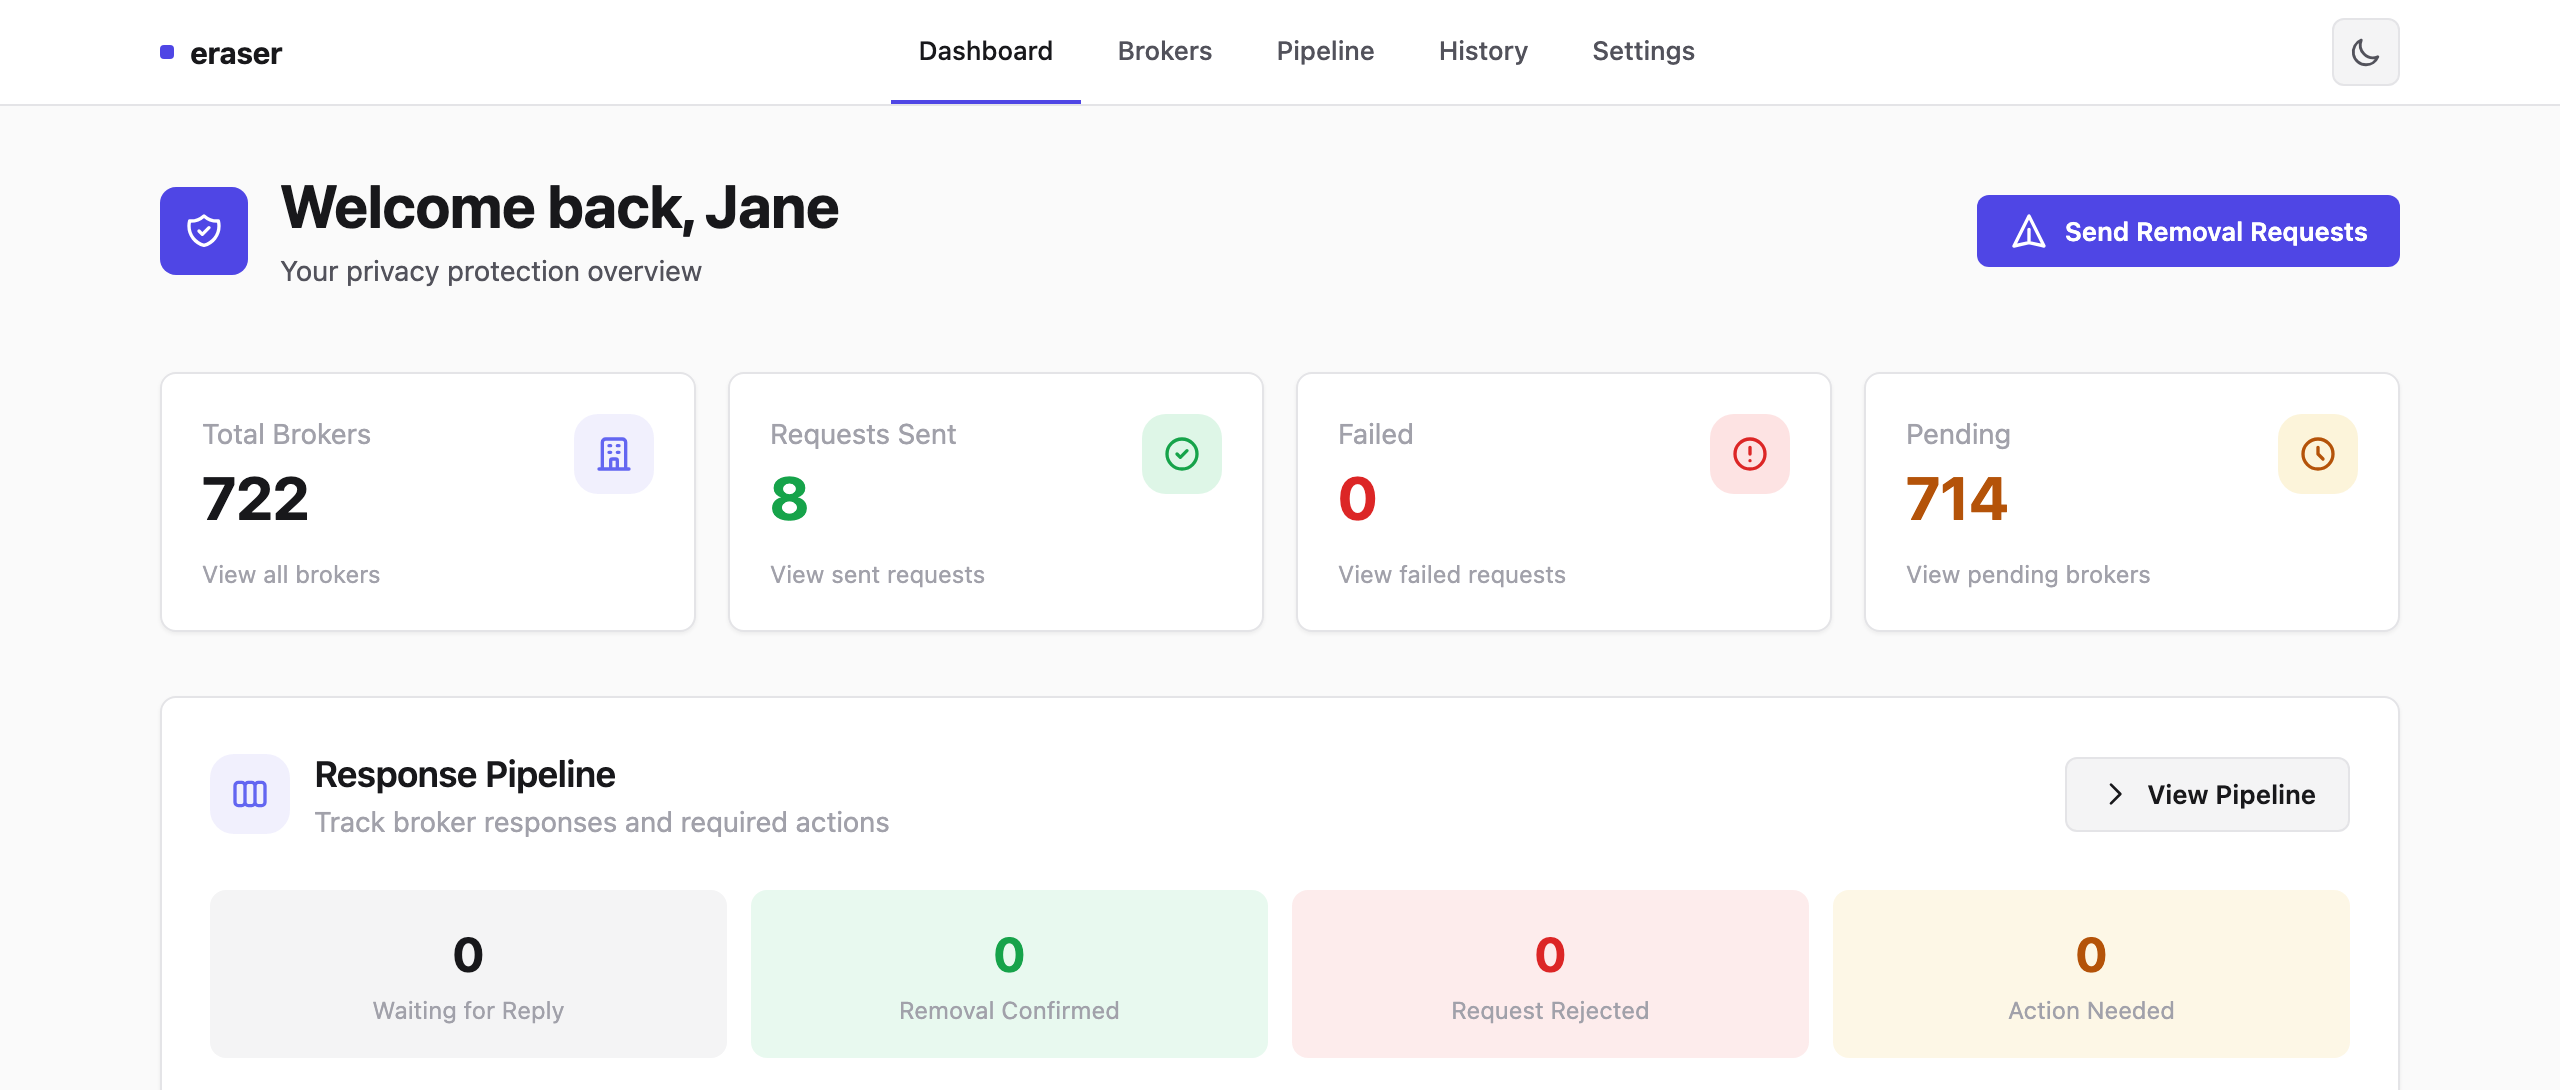
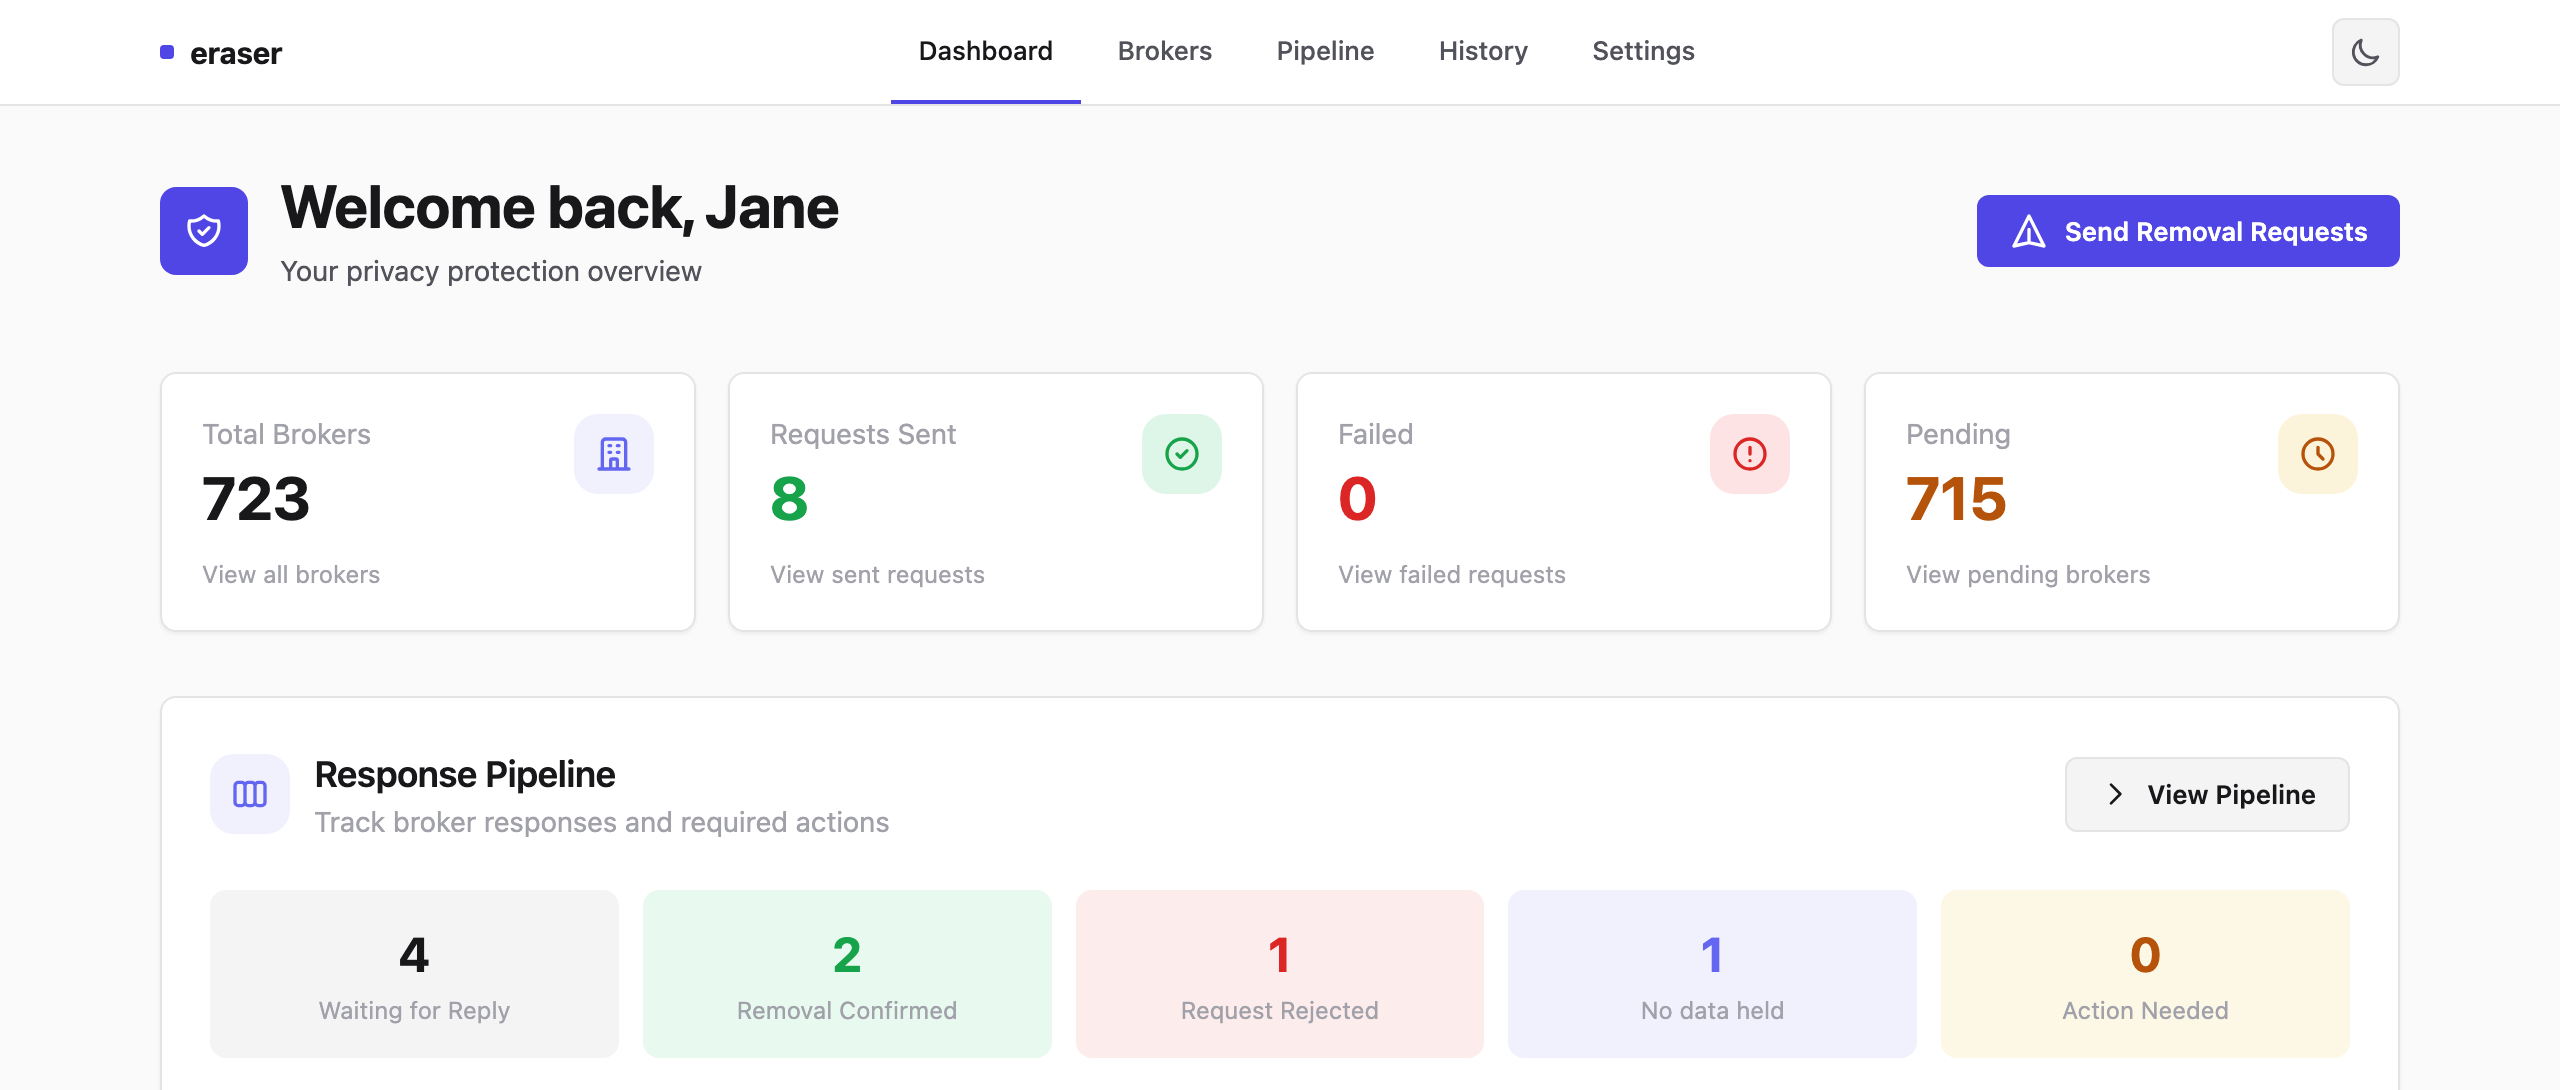
docs: refresh dashboard screenshot and add Automation approvals screenshot (#184)

diff --git a/docs/mcp.md b/docs/mcp.md
@@ -33,6 +33,8 @@ on the Automation page of the web UI or with `eraser mcp approve <id>` in a
 terminal. A client that auto-approves every tool therefore cannot start a batch
 or release a retry by itself.
 
+![The Automation approvals page showing a pending batch with the profile fields, opt-out forms and emails the agent may use](https://raw.githubusercontent.com/drumandbytes/eraser/main/.github/images/automation-approvals.png)
+
 That separation has limits. `eraser mcp approve` refuses to run without a
 terminal, and the web page only accepts a browser's same-origin form post, but
 an agent that can run commands or drive your browser can still approve its own
